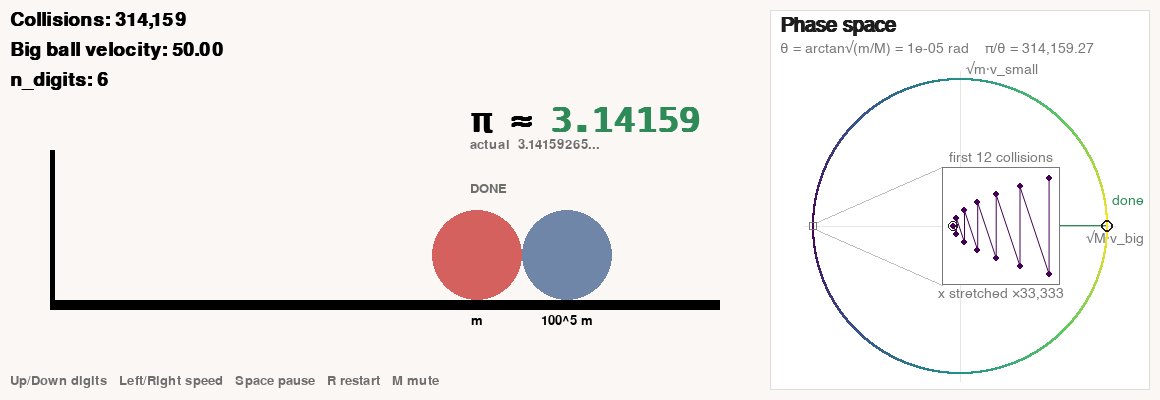
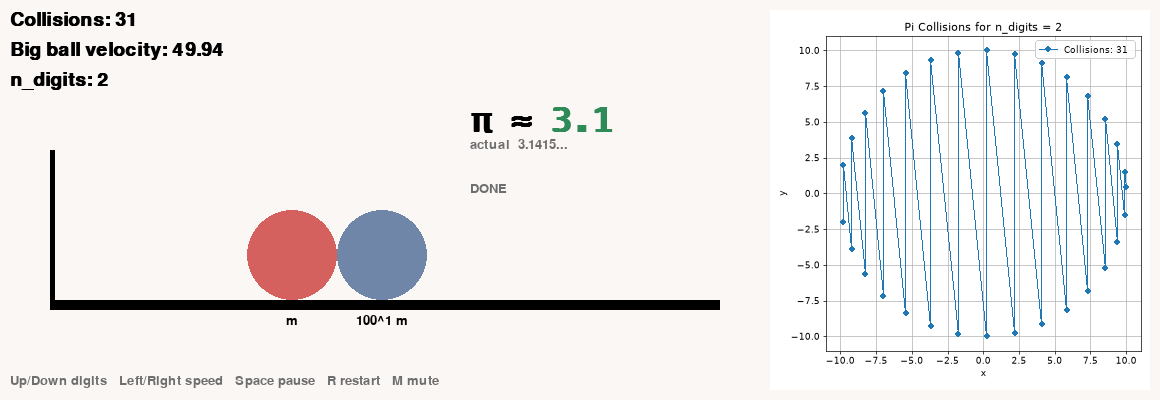
Restore original matplotlib-style phase plot, drawn live
Replace the custom phase-space panel (colored dots, done wedge, zoom inset)
with the look of the original notebook images: blue line + markers, grid,
"Pi Collisions for n_digits = N" title and "Collisions: N" legend.

Matplotlib renders the axes once per run; pygame draws each collision's
point and segment onto that canvas using matplotlib's transform, and the
legend count updates live. Markers are batched with blits() and the canvas
is persistent, keeping typical frames ~2 ms.

diff --git a/phase_panel.py b/phase_panel.py
@@ -1,205 +1,97 @@
-"""Live phase-space plot for the pygame app.
+"""Live phase-space plot for the pygame app, in the style of the original
+matplotlib images ("Pi Collisions for n_digits = N").
 
-Axes are x = sqrt(M) v_big and y = sqrt(m) v_small, scaled so that kinetic
-energy conservation puts every state on the unit circle. In these coordinates:
+Each point is (x, y) = (sqrt(M) * v_big, sqrt(m) * v_small) right after a
+collision, with the big ball starting at speed 1, exactly like the notebook.
+Energy conservation puts every point on a circle of radius sqrt(M).
 
-  * a wall bounce flips v_small, so it is a vertical jump (y -> -y);
-  * a ball-ball collision conserves momentum, so it moves along a line of
-    slope -sqrt(M/m);
-  * each collision advances the point by the same angle around the circle
-    (2*theta per ball-ball + wall pair, theta = arctan sqrt(m/M)), so the
-    number of collisions that fit in the half-turn is about pi / theta.
-
-The panel draws each collision as a dot the moment it happens (colored by
-collision order), the first few collisions as connected lines, the shaded
-"no more collisions" wedge, and a zoomed inset of the first collisions, where
-the zig-zag is otherwise far too small to see.
+How it stays fast enough to update every frame: matplotlib draws the static
+parts (axes, ticks, grid, title, labels) once per run into a pygame surface,
+and we reuse matplotlib's own data->pixel transform to draw the line and
+markers ourselves as each collision happens. The legend is redrawn every
+frame so its collision count is live.
 """
 
-import math
+import os
 
-import numpy as np
-import pygame
+import matplotlib
 
-MAX_POINTS = 20_000     # sample down to about this many dots for large n
-ALL_LINES_UP_TO = 60    # draw every segment when there are this few collisions
-FIRST_LINES = 40        # otherwise connect only the first this many collisions
-INSET_COLLISIONS = 12   # collisions shown in the zoomed inset
+matplotlib.use("Agg")  # render off-screen; pygame owns the window
+from matplotlib.backends.backend_agg import FigureCanvasAgg  # noqa: E402
+from matplotlib.figure import Figure  # noqa: E402
+import numpy as np  # noqa: E402
+import pygame  # noqa: E402
 
-PANEL_BG = (255, 255, 255)
-BORDER = (225, 220, 216)
-GRID = (232, 230, 228)
-CIRCLE = (190, 190, 190)
-INK = (30, 30, 30)
-MUTED = (120, 120, 120)
-DONE_FILL = (46, 139, 87, 70)
-DONE_EDGE = (46, 139, 87)
+MAX_POINTS = 20_000  # for large n, plot about this many collisions (every k-th)
 
-# Viridis colormap anchors (dark purple -> yellow) for "collision order"
-_VIRIDIS = np.array(
-    [(68, 1, 84), (59, 82, 139), (33, 145, 140), (94, 201, 98), (253, 231, 37)], dtype=float
-)
-
-
-def viridis(fractions):
-    """Map values in [0, 1] to RGB rows."""
-    f = np.clip(np.asarray(fractions, dtype=float), 0.0, 1.0) * (len(_VIRIDIS) - 1)
-    i = np.minimum(f.astype(int), len(_VIRIDIS) - 2)
-    t = (f - i)[:, None]
-    return (_VIRIDIS[i] * (1 - t) + _VIRIDIS[i + 1] * t).astype(int)
-
-
-def first_velocities(m1, m2, count):
-    """(v_small, v_big) after each of the first `count` collisions, starting at (0, -1)."""
-    v1, v2 = 0.0, -1.0
-    out = [(v1, v2)]
-    total = m1 + m2
-    for _ in range(count):
-        if v2 < v1:
-            v1, v2 = ((m1 - m2) * v1 + 2 * m2 * v2) / total, ((m2 - m1) * v2 + 2 * m1 * v1) / total
-        elif v1 < 0:
-            v1 = -v1
-        else:
-            break
-        out.append((v1, v2))
-    return out
+# Original images were 6x6 inch figures; render the same layout scaled to the panel
+FIG_INCHES = 6.0
+LINE_BLUE = (31, 119, 180)  # matplotlib's default "C0" blue
+LEGEND_EDGE = (204, 204, 204)
+TEXT = (0, 0, 0)
+FONT_PATH = os.path.join(matplotlib.get_data_path(), "fonts", "ttf", "DejaVuSans.ttf")
 
 
 class PhasePanel:
-    def __init__(self, rect, sim, total_collisions, font, small_font):
+    def __init__(self, rect, sim, total_collisions):
         self.rect = pygame.Rect(rect)
         self.sim = sim
         self.total = max(1, total_collisions)
-        self.font = font
-        self.small_font = small_font
+        self.n_digits = sim.n_digits
+        self.radius = float(np.sqrt(sim.m_big))  # circle radius in plot units
 
-        # Which collisions to plot (the engine samples them for us)
-        self.line_limit = self.total if self.total <= ALL_LINES_UP_TO else FIRST_LINES
-        stride = max(1, self.total // MAX_POINTS)
-        # Collisions alternate ball-ball / wall, so an even stride would only ever
-        # sample wall bounces (all in the upper half). Keep it odd.
-        stride |= 1
-        sim.enable_recording(stride=stride, dense=max(self.line_limit, INSET_COLLISIONS))
-        self.dot_radius = 3 if self.total < 100 else 1
+        # Sample down for big n. Collisions alternate ball-ball / wall, so keep
+        # the stride odd or we'd only ever see one kind (half the circle).
+        stride = max(1, self.total // MAX_POINTS) | 1
+        sim.enable_recording(stride=stride, dense=0)
 
-        # Geometry (panel-local pixels)
-        header = 52
-        self.radius = (min(self.rect.w, self.rect.h - header) - 34) / 2
-        self.center = (self.rect.w / 2, header + (self.rect.h - header) / 2)
+        dpi = self.rect.w / FIG_INCHES
+        self.scale = dpi / 72.0  # points -> pixels, for line widths/marker sizes
+        # The plot is drawn incrementally onto one persistent surface: matplotlib's
+        # axes underneath, then each frame's new line segments and markers on top.
+        self.canvas, self._to_px, self.axes_rect = self._render_axes(dpi)
+        self.canvas.set_clip(self.axes_rect)
 
-        self.background = self._render_background()
-        self.trail = pygame.Surface(self.rect.size, pygame.SRCALPHA)
+        # matplotlib defaults: linewidth 1.5 pt, marker 'o' size 6 pt
+        self.line_width = max(1, round(1.5 * self.scale))
+        self.marker_radius = max(1, round(3 * self.scale))
+        self.legend_font = pygame.font.Font(FONT_PATH, max(8, round(10 * self.scale)))
+        # One pre-drawn marker, stamped with a single batched blits() call per frame
+        d = 2 * self.marker_radius + 1
+        self.marker = pygame.Surface((d, d), pygame.SRCALPHA)
+        pygame.draw.circle(self.marker, LINE_BLUE, (self.marker_radius, self.marker_radius), self.marker_radius)
+        self.last_px = None
 
-        start = sim.phase_point(sim.v_small, sim.v_big)
-        self.prev = (0, start)  # (collision index, phase point)
-        self.inset_points = [start]
-        self.inset = self._setup_inset() if self.total > ALL_LINES_UP_TO else None
+    # ----- static layer (matplotlib) -----
+    def _render_axes(self, dpi):
+        size = self.rect.w / dpi, self.rect.h / dpi
+        fig = Figure(figsize=size, dpi=dpi)
+        canvas = FigureCanvasAgg(fig)
+        ax = fig.add_subplot()
+        # Fixed limits (matplotlib would autoscale to the finished data; we draw live)
+        lim = 1.1 * self.radius
+        ax.set_xlim(-lim, lim)
+        ax.set_ylim(-lim, lim)
+        ax.set_aspect("equal", adjustable="box")
+        ax.set_title(f"Pi Collisions for n_digits = {self.n_digits}")
+        ax.set_xlabel("x")
+        ax.set_ylabel("y")
+        ax.grid(True)
+        fig.tight_layout()
+        canvas.draw()
 
-    # ----- coordinates -----
-    def to_px(self, x, y):
-        cx, cy = self.center
-        return (cx + x * self.radius, cy - y * self.radius)
+        width, height = canvas.get_width_height()
+        surface = pygame.image.frombytes(bytes(canvas.buffer_rgba()), (width, height), "RGBA")
 
-    # ----- static layer -----
-    def _render_background(self):
-        surf = pygame.Surface(self.rect.size, pygame.SRCALPHA)
-        surf.fill(PANEL_BG)
-        pygame.draw.rect(surf, BORDER, surf.get_rect(), 1)
-        cx, cy = self.center
-        r = self.radius
+        transform = ax.transData  # data -> display pixels (origin bottom-left)
 
-        # axes
-        pygame.draw.line(surf, GRID, (cx - r - 8, cy), (cx + r + 8, cy))
-        pygame.draw.line(surf, GRID, (cx, cy - r - 8), (cx, cy + r + 8))
+        def to_px(xs, ys):
+            pts = transform.transform(np.column_stack([xs, ys]))
+            return pts[:, 0], height - pts[:, 1]
 
-        # "no more collisions" wedge: 0 <= v_small <= v_big, i.e. angle in [0, theta]
-        theta = self.sim.theta
-        arc = [self.to_px(math.cos(a), math.sin(a)) for a in np.linspace(0, theta, 24)]
-        wedge = pygame.Surface(self.rect.size, pygame.SRCALPHA)
-        pygame.draw.polygon(wedge, DONE_FILL, [self.center] + arc)
-        surf.blit(wedge, (0, 0))
-        pygame.draw.line(surf, DONE_EDGE, self.center, arc[-1], 1)
-
-        # energy circle: every state must lie on it
-        pygame.draw.circle(surf, CIRCLE, (round(cx), round(cy)), round(r), 1)
-
-        # labels
-        surf.blit(self.font.render("Phase space", True, INK), (10, 6))
-        subtitle = f"θ = arctan√(m/M) = {theta:.3g} rad    π/θ = {math.pi / theta:,.2f}"
-        surf.blit(self.small_font.render(subtitle, True, MUTED), (10, 30))
-        x_label = self.small_font.render("√M·v_big", True, MUTED)
-        surf.blit(x_label, x_label.get_rect(topright=(self.rect.w - 6, cy + 4)))
-        y_label = self.small_font.render("√m·v_small", True, MUTED)
-        surf.blit(y_label, y_label.get_rect(bottomleft=(cx + 5, cy - r - 2)))
-        done = self.small_font.render("done", True, DONE_EDGE)
-        surf.blit(done, done.get_rect(bottomright=(self.rect.w - 6, cy - 18)))
-        return surf
-
-    # ----- zoom inset -----
-    def _setup_inset(self):
-        """Fix the inset's view around the first INSET_COLLISIONS states.
-
-        Near the start the zig-zag is tiny and nearly vertical, so the inset
-        stretches x (and says by how much) to make its shape readable.
-        """
-        sim = self.sim
-        pts = [sim.phase_point(v1 * abs(sim.v0), v2 * abs(sim.v0))
-               for v1, v2 in first_velocities(sim.m_small, sim.m_big, INSET_COLLISIONS)]
-        xs, ys = [p[0] for p in pts], [p[1] for p in pts]
-        x0, x1, y0, y1 = min(xs), max(xs), min(ys), max(ys)
-        x_span = max(x1 - x0, 1e-300)
-        y_span = max(y1 - y0, 1e-300)
-        size = round(self.radius * 0.8)
-        box = pygame.Rect(0, 0, size, size)
-        box.center = (round(self.center[0] + self.radius * 0.28), round(self.center[1]))
-        pad = 0.12
-        return {
-            "box": box,
-            "x0": x0 - pad * x_span, "x_span": x_span * (1 + 2 * pad),
-            "y0": y0 - pad * y_span, "y_span": y_span * (1 + 2 * pad),
-            "stretch": y_span / x_span,
-            "region": (x0, x1, y0, y1),
-        }
-
-    def _inset_px(self, x, y):
-        v = self.inset
-        b = v["box"]
-        return (b.left + (x - v["x0"]) / v["x_span"] * b.w,
-                b.bottom - (y - v["y0"]) / v["y_span"] * b.h)
-
-    def _draw_inset(self, surf):
-        v = self.inset
-        box = v["box"]
-
-        # mark the zoomed region on the main plot and connect it to the inset
-        x0, x1, y0, y1 = v["region"]
-        (ax, ay), (bx, by) = self.to_px(x0, y1), self.to_px(x1, y0)
-        marker = pygame.Rect(0, 0, max(bx - ax, 8), max(by - ay, 8))
-        marker.center = ((ax + bx) / 2, (ay + by) / 2)
-        pygame.draw.rect(surf, MUTED, marker, 1)
-        pygame.draw.line(surf, CIRCLE, marker.topright, box.topleft)
-        pygame.draw.line(surf, CIRCLE, marker.bottomright, box.bottomleft)
-
-        pygame.draw.rect(surf, PANEL_BG, box)
-        pygame.draw.rect(surf, MUTED, box, 1)
-        clip = surf.get_clip()
-        surf.set_clip(box.inflate(-2, -2))
-        pts = self.inset_points[: INSET_COLLISIONS + 1]
-        colors = viridis(np.arange(len(pts)) / self.total)  # same color scale as the main plot
-        px = [self._inset_px(x, y) for x, y in pts]
-        for i in range(1, len(px)):
-            pygame.draw.aaline(surf, colors[i], px[i - 1], px[i])
-        for p, c in zip(px, colors):
-            pygame.draw.circle(surf, c, (round(p[0]), round(p[1])), 3)
-        if px:
-            pygame.draw.circle(surf, INK, (round(px[0][0]), round(px[0][1])), 5, 1)
-        surf.set_clip(clip)
-
-        label = self.small_font.render(f"first {INSET_COLLISIONS} collisions", True, MUTED)
-        surf.blit(label, label.get_rect(midbottom=(box.centerx, box.top - 2)))
-        if v["stretch"] > 1.5:
-            note = self.small_font.render(f"x stretched ×{v['stretch']:,.0f}", True, MUTED)
-            surf.blit(note, note.get_rect(midtop=(box.centerx, box.bottom + 2)))
+        bbox = ax.get_window_extent()
+        axes_rect = pygame.Rect(round(bbox.x0), round(height - bbox.y1), round(bbox.width), round(bbox.height))
+        return surface, to_px, axes_rect
 
     # ----- per frame -----
     def consume(self):
@@ -207,28 +99,38 @@ class PhasePanel:
         rows = self.sim.recorded
         if len(rows) == 0:
             return
-        ks = rows[:, 0].astype(np.int64)
-        xs, ys = self.sim.phase_point(rows[:, 1], rows[:, 2])
-        colors = viridis(ks / self.total)
-        r = self.dot_radius
-        for k, x, y, color in zip(ks, xs, ys, colors):
-            point = (float(x), float(y))
-            px = self.to_px(*point)
-            prev_k, prev_point = self.prev
-            if k <= self.line_limit and k == prev_k + 1:
-                pygame.draw.aaline(self.trail, color, self.to_px(*prev_point), px)
-            if k <= INSET_COLLISIONS:
-                self.inset_points.append(point)
-            pygame.draw.circle(self.trail, color, (round(px[0]), round(px[1])), r)
-            self.prev = (k, point)
+        x, y = self.sim.phase_point(rows[:, 1], rows[:, 2])
+        px, py = self._to_px(x * self.radius, y * self.radius)
+        points = list(zip(px.tolist(), py.tolist()))
+
+        line = ([self.last_px] if self.last_px else []) + points
+        if len(line) > 1:
+            pygame.draw.lines(self.canvas, LINE_BLUE, False, line, self.line_width)
+        r = self.marker_radius
+        self.canvas.blits([(self.marker, (round(x) - r, round(y) - r)) for x, y in points], doreturn=False)
+        self.last_px = points[-1]
+
+    def _draw_legend(self, window):
+        """Upper-right legend like matplotlib's, with a live collision count."""
+        s = self.scale
+        label = self.legend_font.render(f"Collisions: {self.sim.collisions}", True, TEXT)
+        handle_w = round(20 * s)
+        pad = round(4 * s)
+        w = pad + handle_w + round(8 * s) + label.get_width() + pad * 2
+        h = label.get_height() + pad * 2
+        box = pygame.Rect(0, 0, w, h)
+        box.topright = (self.rect.x + self.axes_rect.right - round(5 * s),
+                        self.rect.y + self.axes_rect.top + round(5 * s))
+
+        legend = pygame.Surface(box.size, pygame.SRCALPHA)
+        pygame.draw.rect(legend, (255, 255, 255, 205), legend.get_rect(), border_radius=round(3 * s))
+        pygame.draw.rect(legend, LEGEND_EDGE, legend.get_rect(), 1, border_radius=round(3 * s))
+        mid = h // 2
+        pygame.draw.line(legend, LINE_BLUE, (pad, mid), (pad + handle_w, mid), self.line_width)
+        pygame.draw.circle(legend, LINE_BLUE, (pad + handle_w // 2, mid), self.marker_radius)
+        legend.blit(label, (pad + handle_w + round(8 * s), pad))
+        window.blit(legend, box)
 
     def draw(self, window):
-        surf = self.background.copy()
-        surf.blit(self.trail, (0, 0))
-        if self.inset is not None:
-            self._draw_inset(surf)
-        # current state
-        x, y = self.sim.phase_point(self.sim.v_small, self.sim.v_big)
-        cx, cy = self.to_px(x, y)
-        pygame.draw.circle(surf, INK, (round(cx), round(cy)), 6, 2)
-        window.blit(surf, self.rect)
+        window.blit(self.canvas, self.rect)
+        self._draw_legend(window)

diff --git a/PHY300_Final.py b/PHY300_Final.py
@@ -87,9 +87,6 @@ class App:
         self.font = pygame.font.SysFont("Cascadia", 28, bold=True)
         self.small_font = pygame.font.SysFont("Cascadia", 20)
         self.pi_font = pygame.font.SysFont("Cascadia Mono, Menlo, Courier New", 34, bold=True)
-        # Panel fonts need the √ θ π · glyphs
-        self.panel_font = pygame.font.SysFont("Helvetica, Arial, DejaVu Sans", 20, bold=True)
-        self.panel_small_font = pygame.font.SysFont("Helvetica, Arial, DejaVu Sans", 14)
 
         self.clock = pygame.time.Clock()
         self.speed_index = SPEEDS.index(1.0)
@@ -102,8 +99,7 @@ class App:
             self.n_digits = max(MIN_DIGITS, min(MAX_DIGITS, n_digits))
         self.sim = new_simulation(self.n_digits)
         # Exact final count (fast, numba) sets the panel's color scale and sampling
-        self.panel = PhasePanel(PANEL_RECT, self.sim, count_collisions(self.n_digits),
-                                self.panel_font, self.panel_small_font)
+        self.panel = PhasePanel(PANEL_RECT, self.sim, count_collisions(self.n_digits))
 
     @property
     def speed(self):

diff --git a/README.md b/README.md
@@ -19,7 +19,7 @@ python PHY300_Final.py        # optional: number of digits, e.g. python PHY300_F
 | M | Mute / unmute |
 | Esc | Quit |
 
-![Simulation at n = 6: 314,159 collisions, with the live phase-space panel](assets/screenshot.png)
+![Simulation at n = 2: 31 collisions, with the live phase-space plot](assets/screenshot.png)
 
 ## Why the answer is pi (the phase-space panel)
 
@@ -28,14 +28,14 @@ Plot each state as the point (x, y) = (√M·v_big, √m·v_small). Kinetic ener
 - a **wall bounce** flips v_small, so it is a vertical jump;
 - a **ball-ball collision** conserves momentum, so it moves along a line of slope −√(M/m).
 
-Each collision moves the point the same angle around the circle (2θ for every collision pair, θ = arctan√(m/M)), until it lands in the shaded "done" wedge where both balls move right and can never meet again. The number of steps that fit is ⌊π/θ⌋-ish, and with M/m = 100^(n−1), θ ≈ 10^−(n−1), giving the first n digits of π.
+Each collision moves the point the same angle around the circle (2θ for every collision pair, θ = arctan√(m/M)), until both balls move right with the big one faster, so they can never meet again. The number of steps that fit is ⌊π/θ⌋-ish, and with M/m = 100^(n−1), θ ≈ 10^−(n−1), giving the first n digits of π.
 
-The panel draws every collision as a dot as it happens (colored purple → yellow by order), connects the first few with lines, and zooms in on the first 12 collisions in an inset, because at large n the zig-zag is far too small to see.
+The panel next to the simulation draws this plot live, in the same matplotlib style as our original notebook images: each collision adds a point and a line segment the moment it happens, and the legend counts up with it. Matplotlib renders the axes once per run, and pygame draws the data on top using matplotlib's own coordinate transform, so it keeps up at 60 fps. For n ≥ 6 it plots every k-th collision (about 20,000 points), since there are millions.
 
 ## Files
 
 - `PHY300_Final.py` - The pygame visualization: the collision count is read live as digits of pi, which turn green once the run finishes and they match.
-- `phase_panel.py` - The live phase-space plot drawn beside the simulation.
+- `phase_panel.py` - The live phase-space plot (matplotlib-style) drawn beside the simulation.
 - `pi_collisions.py` - The physics engine. It is event-driven: rather than stepping time forward in tiny increments and checking for overlaps (which let the fast small ball tunnel through the big one and lose collisions from n = 4 up), it solves for the exact moment of each next collision and jumps straight to it. Compiled with numba, it counts 31,415,926 collisions (n = 8) in under a tenth of a second. Run `python pi_collisions.py` for a timing table.
 - `tests/` - Checks that the collision counts match the digits of pi, that energy is conserved, and that the balls never pass through each other. Run with `python -m pytest`.
 - `Phase_Space.ipynb` - Jupyter notebook that graphs all the points by running a simulation itself. Multiple cells that do the same thing.
